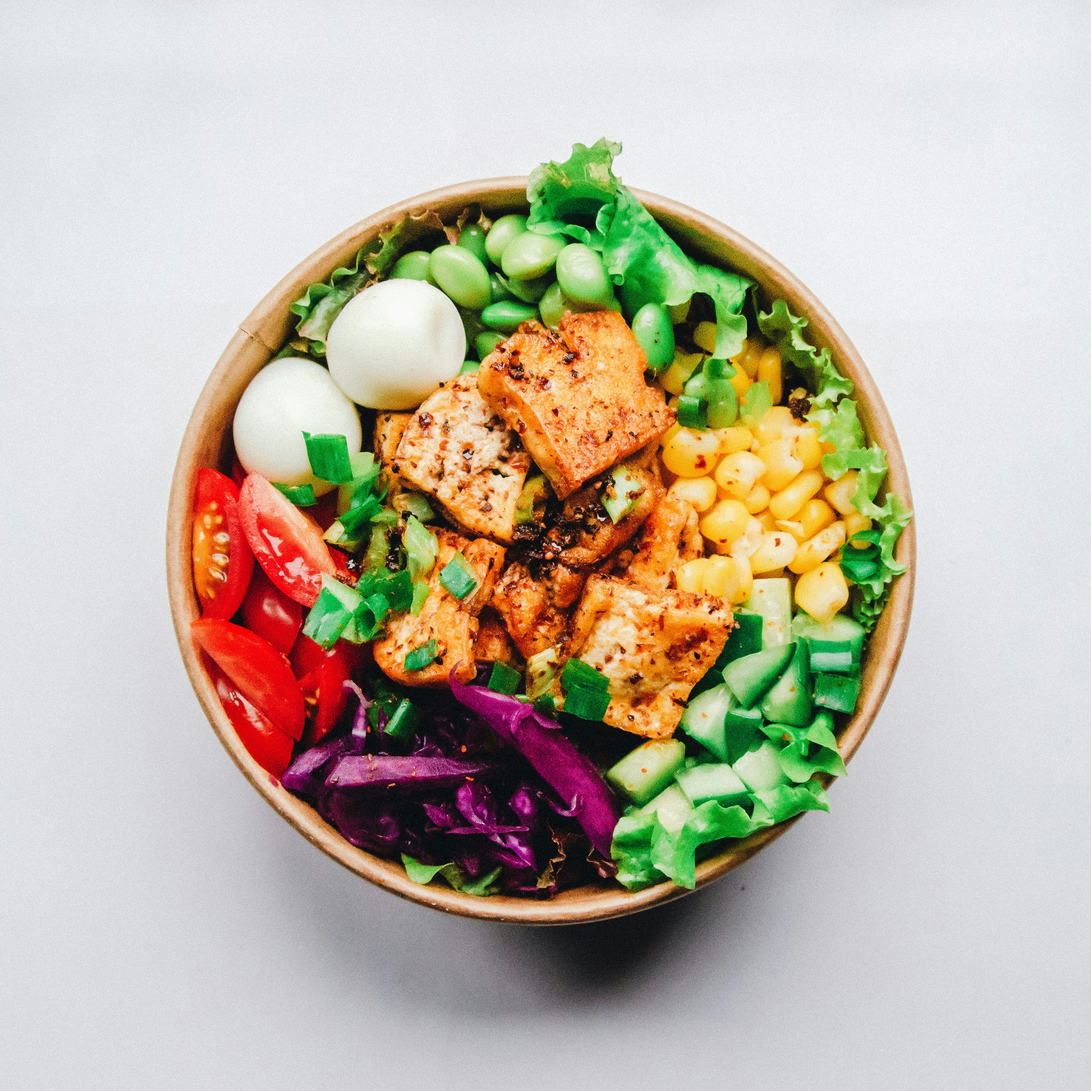
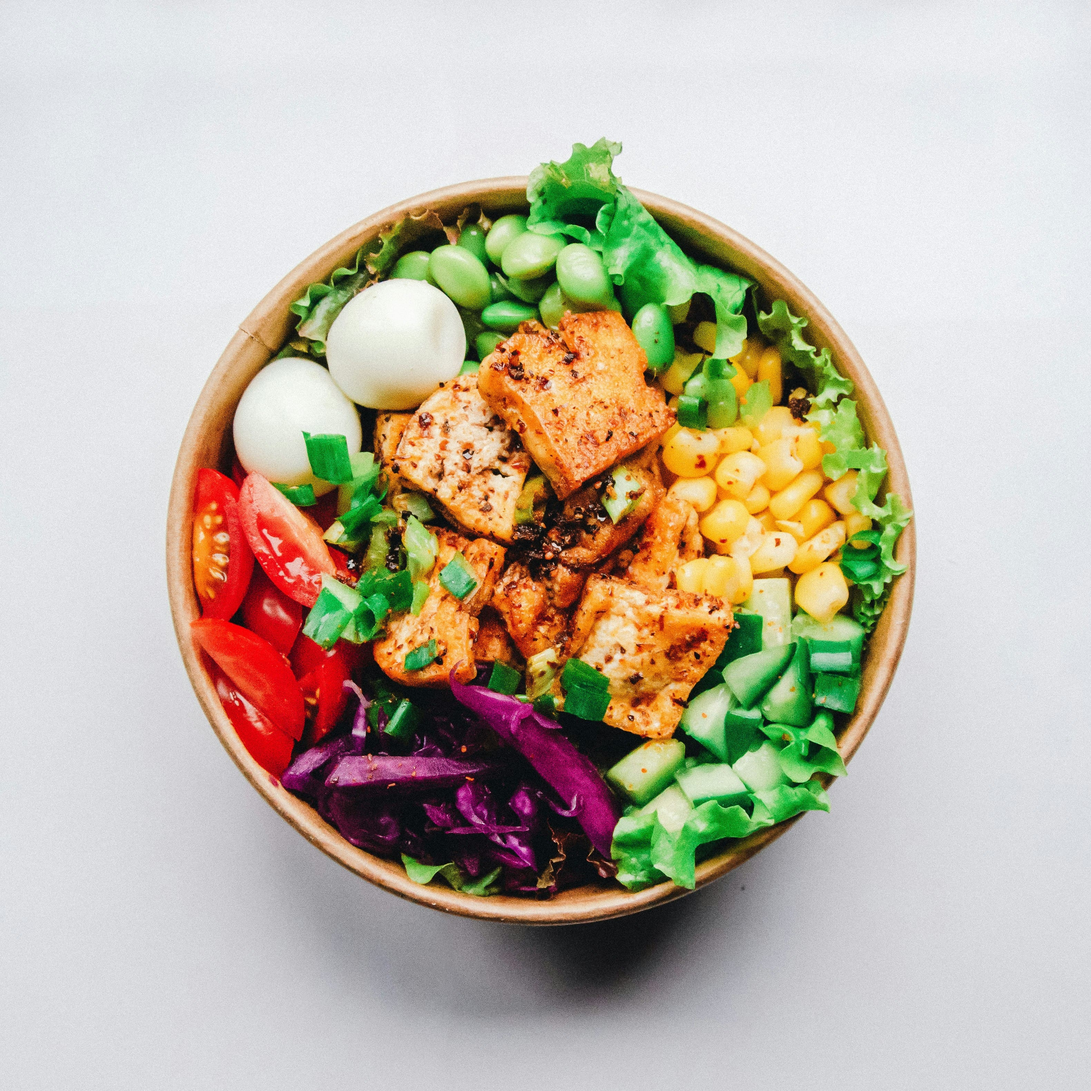
add: PC版ユーザーが投稿した料理たちまで追加

diff --git a/apps/web/app/page.tsx b/apps/web/app/page.tsx
@@ -14,7 +14,7 @@ const steps = [
   {
     title: "レシピで料理を再現",
     icon: "/icon-dishes.svg",
-    desc: "アップロードされた画像から推測されるレシピを紹介します",
+    desc: "再現してみた料理を投稿して他の人にもシェアしよう！",
   },
 ];
 
@@ -68,6 +68,54 @@ const recentMenus = [
     name: "リボンパスタのジェノベーゼ",
     link: "#",
     image: "/img-asparagus.png",
+  },
+];
+
+const works = [
+  {
+    name: "アスパラガスのベーコン巻き",
+    link: "#",
+    image: "/img-asparagus.png",
+  },
+  {
+    name: "ステーキとポテトの鉄板焼き",
+    link: "#",
+    image: "/img-bakedpotato.jpg",
+  },
+  {
+    name: "オートミールクッキー",
+    link: "#",
+    image: "/img-cookies.jpg",
+  },
+  {
+    name: "リボンパスタのジェノベーゼ",
+    link: "#",
+    image: "/img-pasta.jpg",
+  },
+  {
+    name: "5色野菜のサラダ",
+    link: "#",
+    image: "/img-salad.jpg",
+  },
+  {
+    name: "ブルーベリーのフレンチトースト",
+    link: "#",
+    image: "/img-toast.jpg",
+  },
+  {
+    name: "ツナとキャベツのホットサンド",
+    link: "#",
+    image: "/img-hotsand.jpg",
+  },
+  {
+    name: "サンラータン",
+    link: "#",
+    image: "/img-noodle.jpg",
+  },
+  {
+    name: "鶏胸肉のグリル",
+    link: "#",
+    image: "/img-chicken.jpg",
   },
 ];
 
@@ -156,14 +204,14 @@ export default function Home() {
                 今月のおすすめメニュー
               </h2>
               <div className="flex items-center gap-8 w-full">
-                <div className="relative w-100 h-72 rounded-lg overflow-hidden drop-shadow-lg">
+                <a className="relative cursor-pointer w-100 h-72 rounded-lg overflow-hidden drop-shadow-lg">
                   <Image className="object-cover object-center" src="/img-asparagus.png" alt={"今月のおすすめメニュー"} width={400} height={287} />
                   <span className="absolute bottom-0 left-0 w-full p-4 bg-white/90">
                     ベーコンのアスパラ巻き
                   </span>
-                </div>
+                </a>
                 <div
-                  className="flex-1 py-6 px-1"
+                  className="flex flex-col gap-6 items-end flex-1 py-6 px-1"
                   style={{
                     borderTop: '1px solid transparent',
                     borderBottom: '1px solid transparent',
@@ -173,6 +221,9 @@ export default function Home() {
                   <p className="leading-[1.8]">
                     春から初夏にかけて旬を迎えるアスパラガスは、みずみずしく甘みが強いのが特徴です。特に北海道や長野県産が有名で、昼夜の寒暖差によってやわらかく風味豊かに育ちます。ベーコンで巻いて焼くことで、アスパラのシャキッとした食感と自然な甘さに、ベーコンの塩気と旨みが重なり、シンプルながら満足感のある一品に仕上がります。旬の味わいをぜひ楽しんでみてください。
                   </p>
+                  <a href="" className="text-[#E97D35] hover:underline transition-all duration-100 font-semibold">
+                    →レシピを見る
+                  </a>
                 </div>
               </div>
             </div>
@@ -184,13 +235,13 @@ export default function Home() {
                 最近検索されたメニュー
               </h2>
               <ul className="
-              grid gap-6 w-full overflow-x-auto
-              grid-flow-col
-              auto-cols-[296px]
-              p-2
-              pb-8
-              snap-x snap-mandatory
-            ">
+                grid gap-6 w-full overflow-x-auto
+                grid-flow-col
+                auto-cols-[296px]
+                p-2
+                pb-8
+                snap-x snap-mandatory
+              ">
                 {recentMenus.map((menu, index) => (
                   <li key={index} className="grid grid-rows-[auto_1fr] drop-shadow-lg">
                     <a className="contents" href={menu.link}>
@@ -198,6 +249,34 @@ export default function Home() {
                         <Image className="object-cover object-center" src={menu.image} alt={menu.name} fill />
                       </div>
                       <span className="bg-white rounded-b-xl p-4">{menu.name}</span>
+                    </a>
+                  </li>
+                ))}
+              </ul>
+            </div>
+          </section>
+          <section>
+            <div className="flex flex-col gap-4 w-250 mx-auto">
+              <h2 className="flex items-end gap-2 text-2xl font-bold
+              before:content-[''] before:block before:w-11 before:h-10 before:bg-[url('/icon-dishes.svg')] before:bg-contain before:bg-no-repeat">
+                ユーザーが投稿した料理たち
+              </h2>
+              <ul className="columns-3 gap-6 p-2 pb-8">
+                {works.map((menu, index) => (
+                  <li key={index} className="mb-6 break-inside-avoid">
+                    <a href={menu.link} className="block drop-shadow-lg">
+                      <div className="overflow-hidden rounded-t-xl bg-white">
+                        <Image
+                          src={menu.image}
+                          alt={menu.name}
+                          width={296}
+                          height={200}
+                          className="w-full h-auto object-cover"
+                        />
+                      </div>
+                      <span className="block bg-white rounded-b-xl p-4">
+                        {menu.name}
+                      </span>
                     </a>
                   </li>
                 ))}
